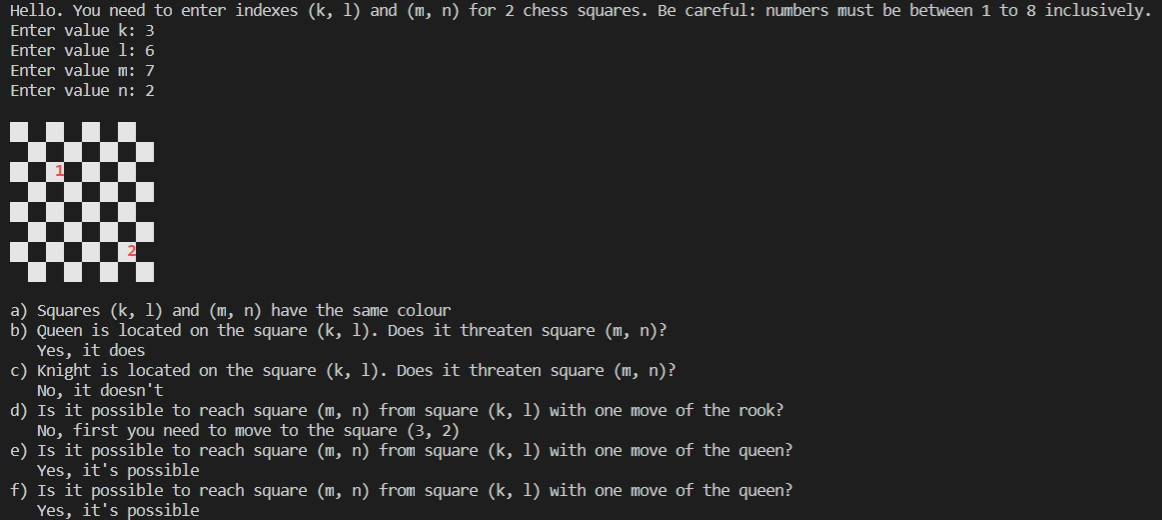
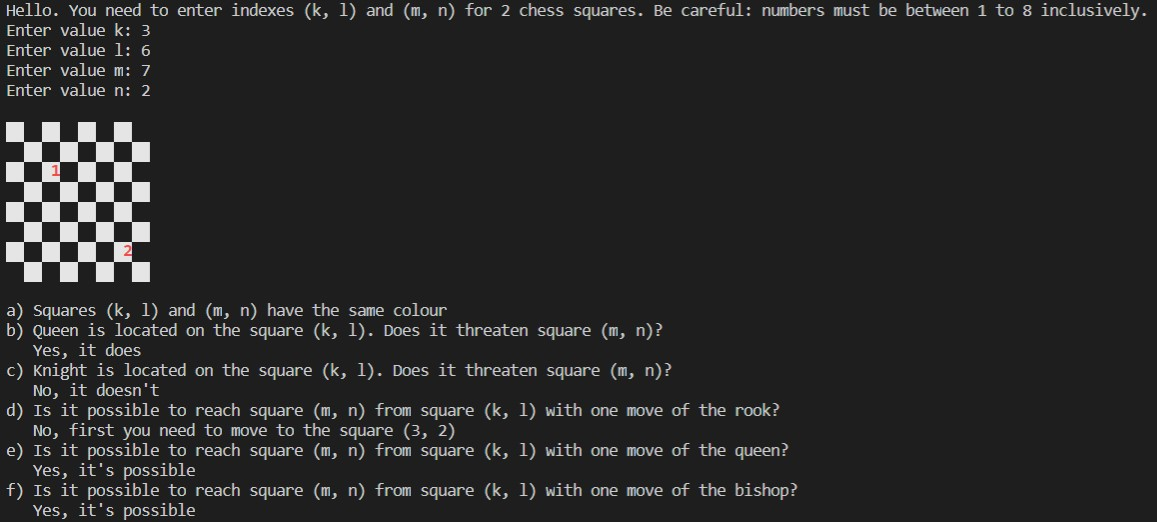
fix minor error

diff --git a/chess.py b/chess.py
@@ -80,7 +80,7 @@ def check_queen_move(k, l, m, n):
 
 
 def check_bishop_move(k, l, m, n):
-    print("f) Is it possible to reach square (m, n) from square (k, l) with one move of the queen?")
+    print("f) Is it possible to reach square (m, n) from square (k, l) with one move of the bishop?")
     if (k + l) % 2 == (m + n) % 2:
         if abs(k - m) == abs(l - n):
             print("   Yes, it's possible")
